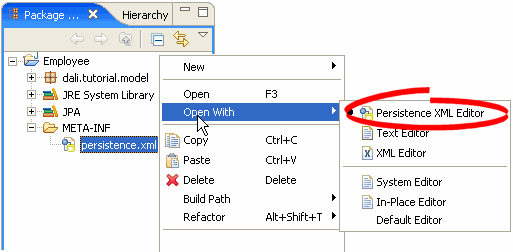
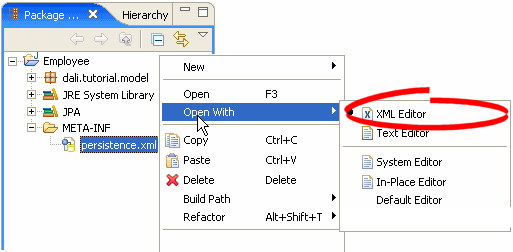
202974 - persistence xml editor doc fix.

diff --git a/jpa/plugins/org.eclipse.jpt.doc.user/tasks001.htm b/jpa/plugins/org.eclipse.jpt.doc.user/tasks001.htm
@@ -35,14 +35,14 @@
 <li>
 <p>Right-click the <code>persistence.xml</code> file in the <span class="gui-object-title">Package Explorer</span> and select <span class="gui-object-action">Open With &gt; XML Editor</span>.</p>
 <div class="figure"><a id="sthref61" name="sthref61"></a>
-<p class="titleinfigure">Opening the Persistence XML Editor</p>
-<img src="img/open_persistence_editor.png" alt="This figure shows the Open &gt; Persistence XML Editor option for the persistence.xml file." title="This figure shows the Open &gt; Persistence XML Editor option for the persistence.xml file." /><br /></div>
+<p class="titleinfigure">Opening the XML Editor</p>
+<img src="img/open_persistence_editor.png" alt="This figure shows the Open &gt; XML Editor option for the persistence.xml file." title="This figure shows the Open &gt; XML Editor option for the persistence.xml file." /><br /></div>
 <!-- class="figure" --></li>
 <li>
-<p><a id="sthref62" name="sthref62"></a><a id="sthref63" name="sthref63"></a>Use the <span class="gui-object-title">Persistence XML Editor</span> to edit the <code>persistence.xml</code> file.</p>
+<p><a id="sthref62" name="sthref62"></a><a id="sthref63" name="sthref63"></a>Use the <span class="gui-object-title">XML Editor</span> to edit the <code>persistence.xml</code> file.</p>
 <div class="figure"><a id="sthref64" name="sthref64"></a>
-<p class="titleinfigure">Persistence XML Editor</p>
-<img src="img/persistence_xml_editor.png" alt="This figure shows the Persistence XML Editor." title="This figure shows the Persistence XML Editor." /><br /></div>
+<p class="titleinfigure">XML Editor</p>
+<img src="img/persistence_xml_editor.png" alt="This figure shows the XML Editor." title="This figure shows the XML Editor." /><br /></div>
 <!-- class="figure" --></li>
 </ol>
 <img src="img/ngrelt.png" alt="Related task" title="Related task" /><br />
